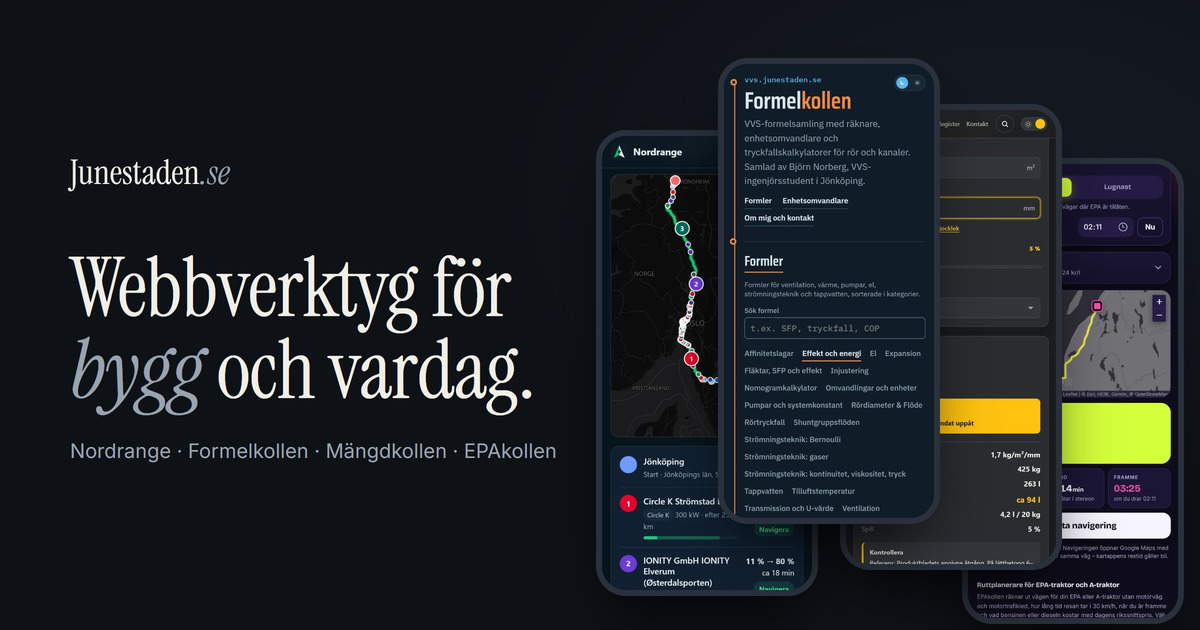
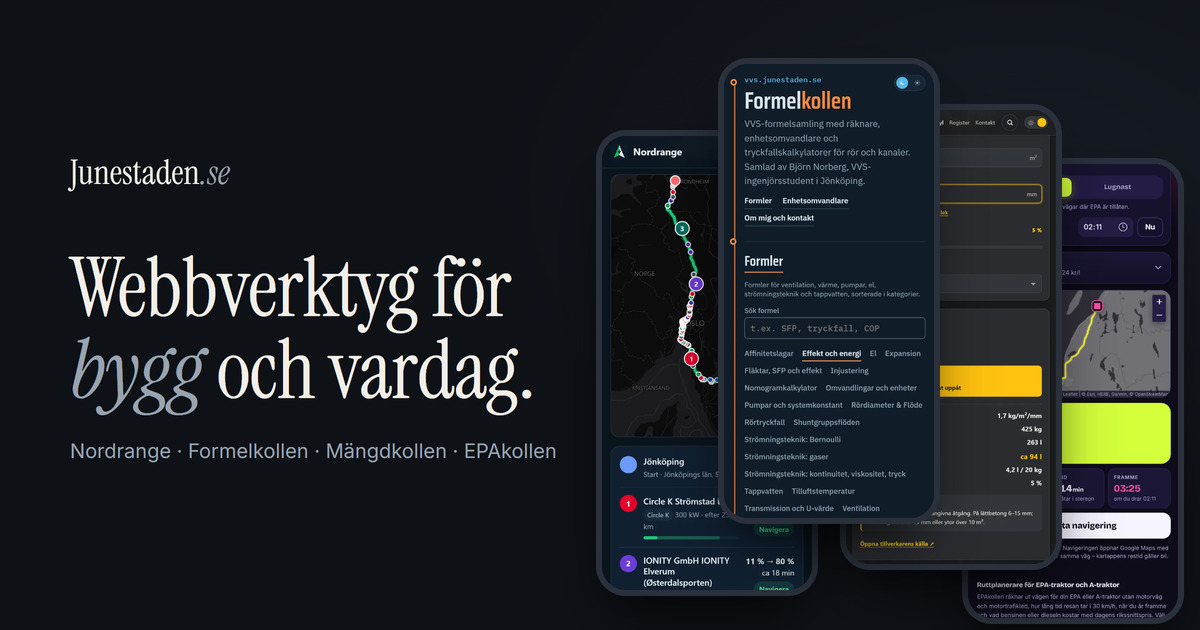
Mängdkollen-bild: hela resultatrutan syns, ny delningsbild

diff --git a/public/index.html b/public/index.html
@@ -20,7 +20,7 @@
 <meta property="og:url" content="https://junestaden.se/">
 <meta property="og:title" content="Junestaden – webbverktyg för bygg och vardag">
 <meta property="og:description" content="Nordrange, Formelkollen, Mängdkollen och EPAkollen – gratis webbverktyg för elbilsresor, VVS-formler, materialåtgång och EPA-resor. Utan inloggning, i mobilen och på datorn.">
-<meta property="og:image" content="https://junestaden.se/img/og.jpg?v=7">
+<meta property="og:image" content="https://junestaden.se/img/og.jpg?v=8">
 <meta property="og:image:width" content="1200">
 <meta property="og:image:height" content="630">
 <meta name="twitter:card" content="summary_large_image">
